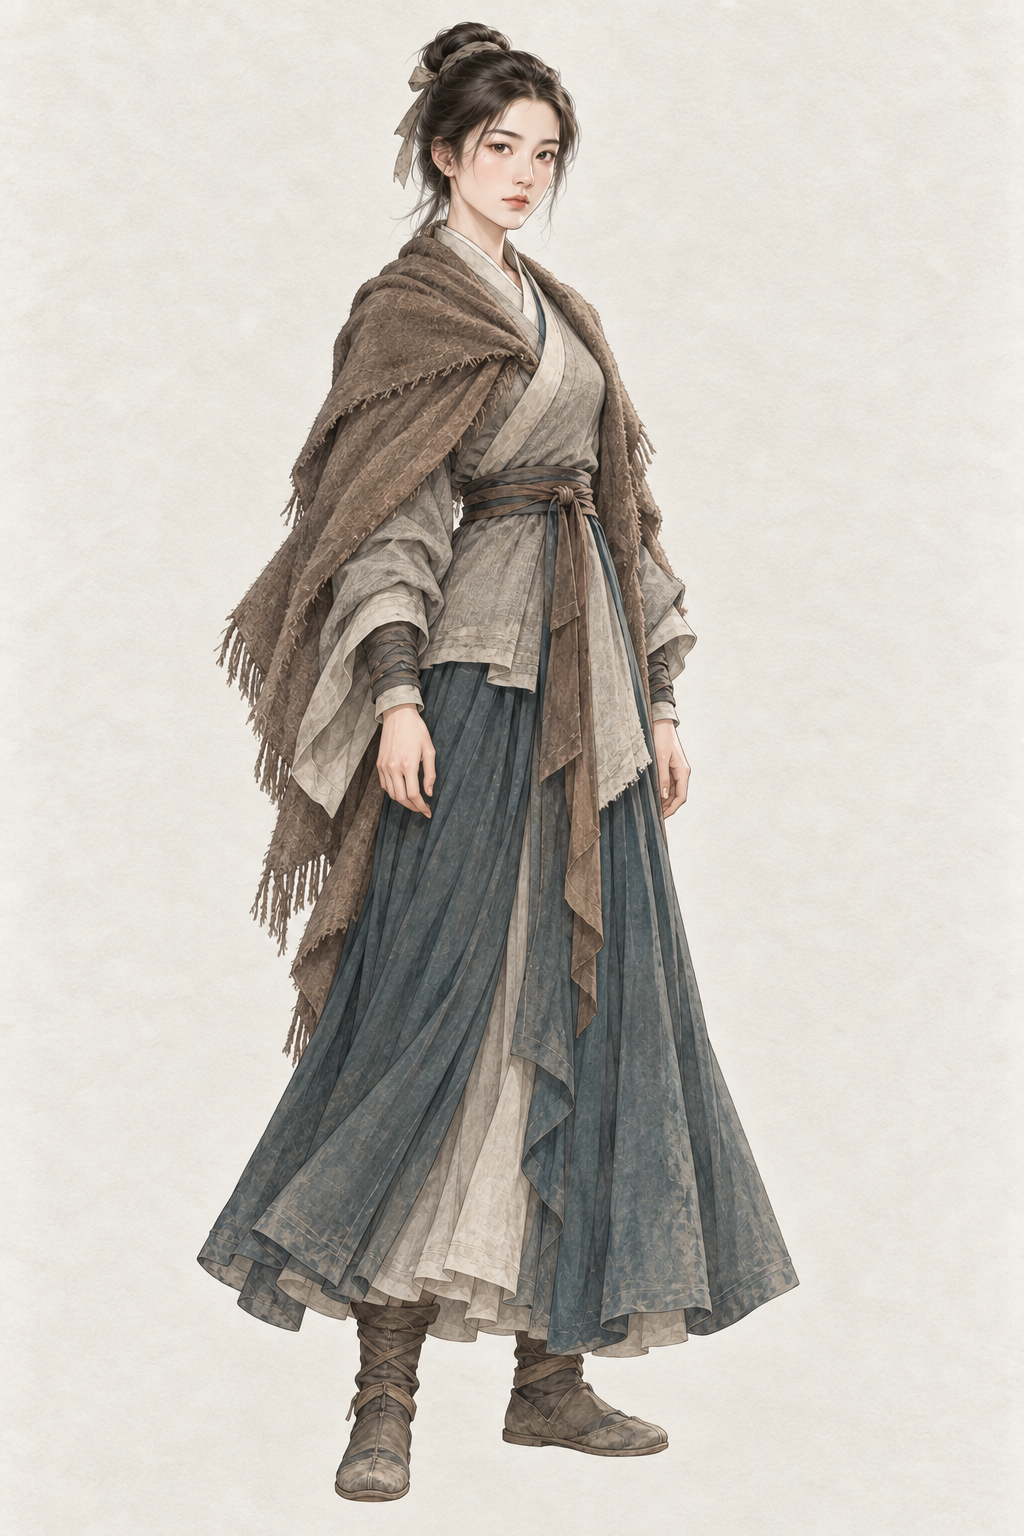
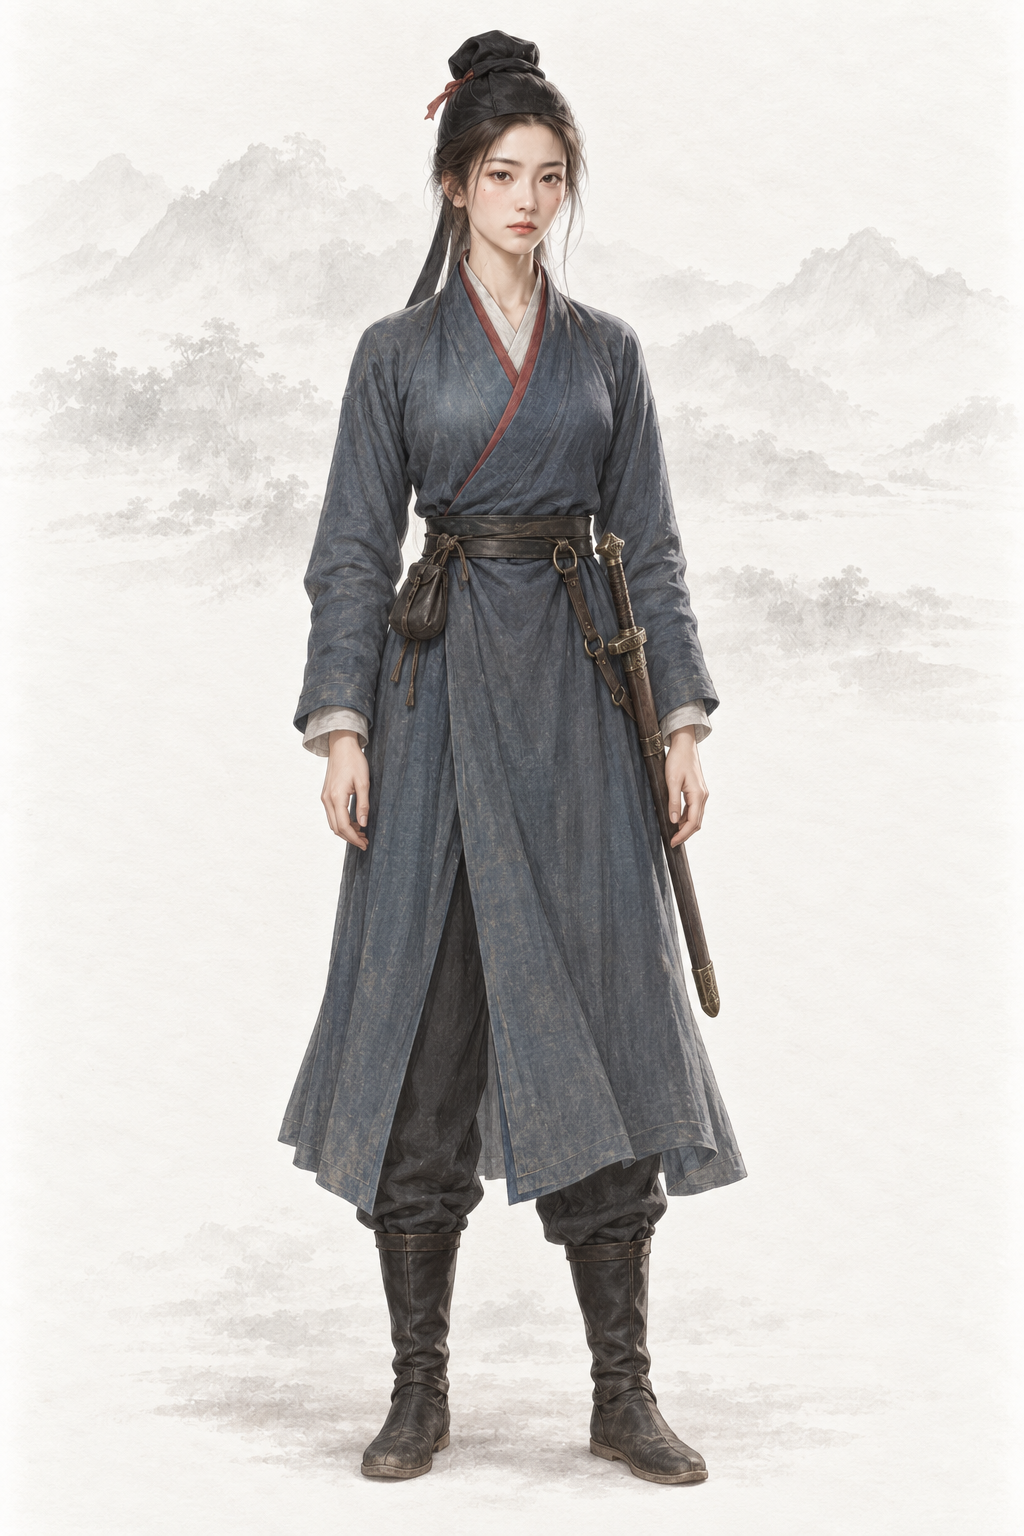
assets(character): por_npc_zhujue__ch10_f_base 主角（女）· 唐·西州以北（白马，AR-26 唐代化）（codex）
主角时代图：上传本轮新出的 ch00 锚点作唯一身份参考；沿用审核组提示词（唐代装束按 design/10 §8.9 改写），补去 AI 味一句

diff --git a/assets/default/prompts/characters/protagonist/npc_zhujue__f_ch10.md b/assets/default/prompts/characters/protagonist/npc_zhujue__f_ch10.md
@@ -1,7 +1,7 @@
 ---
 asset_id: por_npc_zhujue__ch10_f_base
 subject_id: npc_zhujue
-name: 主角（女）· 本作清初·回疆
+name: 主角（女）· 唐·西州以北（白马，AR-26 唐代化）
 book: ch10_baima
 gender: female
 age_variant: prime
@@ -15,10 +15,33 @@ references:
   use: 仅取画法、纸底、柔光、笔触和设色，不继承参考角色面容、年龄体型、发式、衣装或道具。实际manifest状态approved；作者本轮明确指定男女现有基线用于生产，审批状态保留不变。SHA-256 2d1b0b0905e7624d3713ca71422974db15f0eaf42da34376794d040e4855a640
 - path: .agents/coord/imagegen-reference/user_wangyuyan_style_20260930.png
   use: 用户指定水墨人物补充风格参考，仅取笔墨、柔和层染和衣料笔触，不复制面容、体型、服饰或山水背景。SHA-256 61ef2d8af3f0dcc87204f60bb222cf754cc42ff44b69c481dc57eeb3c7fca80b
-status: ready
+status: redo
+codex_prompt_rev: 2026-10-02
+redo_reason: "AR-31：作者点名的重要人物，按经典造型以文字改写后重出（10-02）"
 ---
 
 # 主角（女）· 白马啸西风 · 本作清初·回疆
+
+## Gemini 提示词
+
+> 2026-10-02 AR-31 改写（1 号出图员，codex exec · image_gen 出图）：重要人物借鉴经典影视造型，只写成文字——不写演员名、不上传剧照、原创面孔；主角和美人画得好看，去 AI 味，禁止幼态。出图时上传两张同性别基线立绘作画风参考（放在最后）；第 1 张为身份参考（por_npc_zhujue__ch00_f_base.png）。审核组原稿保留在下一节作历史。
+
+```text
+生成一张 2:3 竖幅全身人物立绘：单人、单一视角、完整全身——头顶、双手、双脚和手中器物的两端都在画面内，四周留出自然空白；人物站姿自然，身体基本朝向正面，头部端正（不歪头、不仰不俯），镜头平视。
+【画风】写实手绘古风人物插画，与本项目写实武侠角色立绘同一画风：人物是完整、坚实、比例真实的写实绘画；皮肤有真实质感——细小毛孔、细纹、晒痕、轻微色斑和自然的左右不对称，不磨皮、不油亮；头发有一根根的发丝和自然碎发；布料看得出经纬纹理、厚薄和自然垂坠的褶皱，带穿用过的轻微旧化，但完整不破烂；整体设色低饱和、沉稳；柔和的自然光从左上方照来，明暗过渡自然，不打舞台光、轮廓光或美颜柔光。这是手绘写实绘画，不是照片，不是三维渲染，也不是动漫或游戏 CG。
+【背景】不透明的暖浅灰色纸底，只在远处有极淡的水墨远山和薄雾，大面积留白；人物与背景明暗分明、轮廓边缘干净完整（后续要自动抠图），水墨和纸纹只在背景里，不侵入人物和衣服；脚下只有很淡的一点接触阴影。
+【人物】主角（女）：本作原创的穿越者，此刻身处《白马啸西风》按本作改设在唐代西域（武周长安二年，约公元 702 年，项目原创定年）：西州以北、天山北麓的驿路上，随驿车和粟特商队西行的汉人行旅。本图是她在这一时代的基础立绘，不代表特定门派或结局。
+【身份参考】随提示词上传的第 1 张图是主角本人（序章 ch00 新版定稿）：保持同一个人——脸型、眉形、眼睛、鼻子、嘴、右眼下的小痣、肤色、体型和年龄都不变；只把服饰、发式和道具换成下文的本时代版本。不要照搬图中的衣服、姿势和背景。
+【本人面容（十五个时代统一，不能变）】约二十八岁的现代中国女青年，原创面孔，不像任何演员或书中其他人物。略长的鹅蛋脸，颧骨清楚，下颌利落而不尖；眉毛偏浓、平直，眉尾微微上扬（不是细柳眉、不是挑眉）；深棕色细长杏眼、内双，眼神清醒专注；鼻梁秀直、鼻头略圆；唇形清楚、上唇略薄，嘴角平；右眼外下方一颗清楚可见的浅褐色小痣（全书标志）；暖中性肤色带一点日晒，皮肤有真实纹理，素面不施浓妆。中等偏高的个子，肩背舒展、腰背挺直，四肢有行动的力量（约 7 头身）；乌黑直发、发量浓密。是成熟有主见的成年女子：沉静、可靠、带一点好奇，既不柔弱也不妩媚。
+【主角标志】发髻上系一根褪色的朱红细绳，露出短短的绳头——每个时代都保留这根红绳。
+【服饰】唐代女子骑行的胡服装束：乌发梳成高髻，外戴一顶黑色软脚幞头，髻根系朱红细绳、绳头露出一点；黛青色翻领窄袖长袍（翻领露出绛红衬里，袍长过膝），月白内衫，腰束黑色革带、挂一只小皮囊，深色长裤，黑色长靴；衣料旧而完整，带一点风沙。
+【道具】左腰用两根短挂带挂一柄唐代直身双刃剑，完整收在朴素木鞘里，剑不出鞘。
+【姿态与神情】身体正面站稳，双手空着、自然垂在身侧；神情沉静清醒，像刚在风沙里抬头辨认驿路。成年女性的身体比例（约 7 头身），衣着完整端庄。整体要好看、有魅力：清秀耐看、英气而美丽（但不是网红或模特脸）。
+【不要】画面里不要任何文字、题款、印章、签名、水印、边框、分格或多视图；不要第二个人；不要幼态（童颜、娃娃脸、婴儿肥、儿童或少年身材、大头小身）；不要塑料感皮肤、磨皮美颜、网红脸（尖下巴大眼高鼻的模板脸）、过度对称、浓妆、偶像式打光、蜡像感；不要照片质感、三维渲染或动漫大眼；不要歪头、斜镜头；不要多指、缺指（设定的伤残除外）、手与器物粘连或悬空；汉式交领必须右衽（穿着者的左襟压在右襟上），不要左衽（设定为少数民族服制的除外），不要水平镜像；不要现代物品、发光特效、法阵或能量光。不要明星脸或模特式五官；不要与书中男女主角撞脸；不要年龄变小或变老。不要像书中女角；不要清代旗装、宋明服饰；不要披帛飘带、袒露的唐代宫装；不要清真寺穹顶等后世建筑。
+【画风基线】随提示词上传的参考图里，最后两张是本项目的立绘画风基线：只参考它们的画风、用色、光线、质感和暖浅灰纸底加淡水墨的背景处理，整体画风必须与它们一致——精细写实的数字手绘插画，不是油画，不要厚涂笔触和画布纹理。参考图只取画风、光线、质感和背景处理，不取长相：不要照搬基线图里人物的长相、年龄、发型、服饰和姿势。
+```
+
+---
 
 ## 人物要点
 
